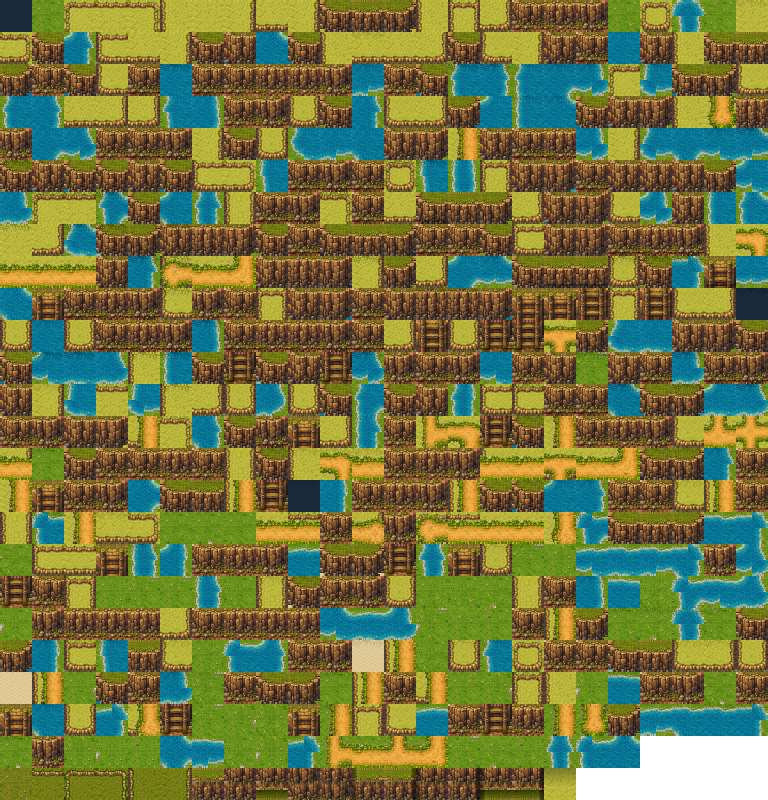
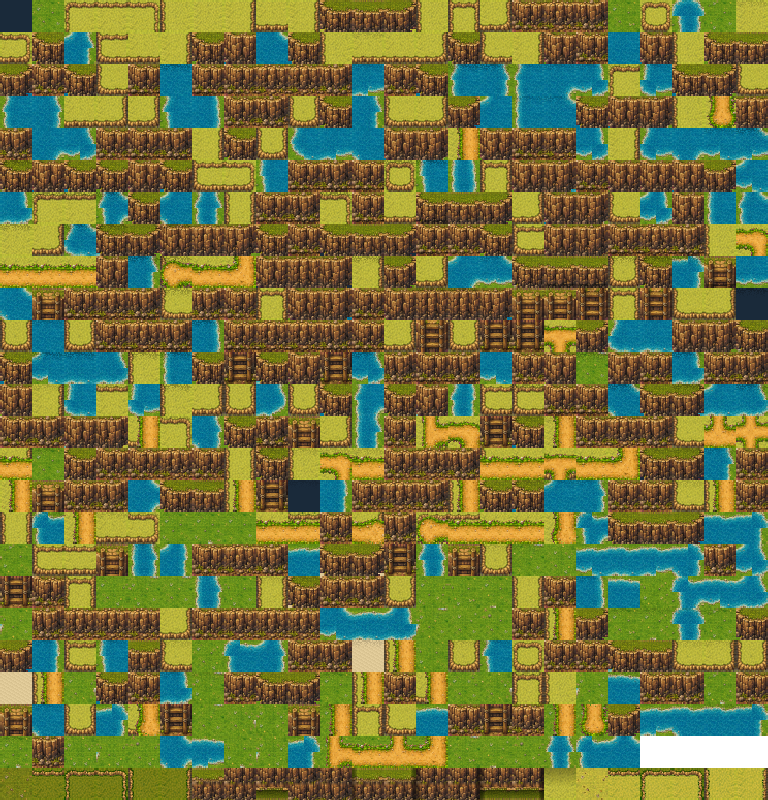
Northwood editor: plateau elevation Tint tool + lit grass tiles
Add a ✨ Tint tool that flood-fills a plateau top to toggle a bright
elevation highlight (#b8b038), and reset it on a second click.

- isElevatedTop: tint follows grass that actually sits atop a cliff
  face, so it stays on the plateau even when a side wall has a gap
  (fixes the leak into surrounding lowland grass).
- Lit grass palette (G/H/I/J/K/L) mirrors the normal top set, so
  edges/corners are preserved when toggling tint; interior-only
  recolor keeps the outer fringe dark olive to blend with the field.
- Bake lit tiles forest:594-599 into both atlas copies (exports +
  public) and register them in the stage JSON and vocab.

Changed region(s): [[0.75, 0.9375, 1.0, 1.0]]

diff --git a/editor.html b/editor.html
@@ -63,6 +63,7 @@
         <div class="row">
           <button id="plGrass" title="Paint the walkable grass top — edges & corners auto-fit">🟩 Top</button>
           <button id="plWall" title="Paint the rock face below the top — caps, feet & corners auto-fit; more rows = taller">🟫 Wall</button>
+          <button id="plTint" title="Click a plateau top to toggle its bright elevation highlight">✨ Tint</button>
         </div>
 
         <h2>Roster <small>(click to select)</small></h2>
@@ -300,23 +301,45 @@
       // corners for the face — is derived from its neighbours and re-flows live
       // as you extend or erase. Membership is implied by which char-set a cell's
       // current char belongs to, so re-resolving is stateless.
-      const GRASS_SET = new Set(["g", "n", "A", "B", "w", "e"]);          // walkable top
+      // top has two palettes: normal yellow-green + a bright "lit" set used to
+      // highlight an elevated plateau. Both count as grass membership; the Tint
+      // tool toggles a whole top between them, preserving each cell's edge/corner.
+      const GRASS_NORMAL = ["g", "n", "A", "B", "w", "e"];
+      const GRASS_LIT    = ["G", "H", "I", "J", "K", "L"];
+      const LIT_OF  = { g: "G", n: "H", A: "I", B: "J", w: "K", e: "L" };
+      const NORM_OF = { G: "g", H: "n", I: "A", J: "B", K: "w", L: "e" };
+      const isLit = (ch) => ch in NORM_OF;
+      const normRole = (ch) => NORM_OF[ch] || ch;   // bright→normal role char; normal→itself
+      const GRASS_SET = new Set([...GRASS_NORMAL, ...GRASS_LIT]);          // walkable top
       const WALL_SET  = new Set(["c", "v", "b", "h", "i", "j", "k", "l", "o", "p", "r"]); // rock face
       const inBounds = (x, y) => x >= 0 && y >= 0 && x < D.cols && y < D.rows;
       const plMat = (x, y) => { const c = charAt(x, y); return GRASS_SET.has(c) ? "grass" : WALL_SET.has(c) ? "wall" : null; };
       const inGrass = (x, y) => inBounds(x, y) && GRASS_SET.has(charAt(x, y));
       const inWall  = (x, y) => inBounds(x, y) && WALL_SET.has(charAt(x, y));
+      // is this grass an ELEVATED plateau top (vs. lowland)? Scan straight down through
+      // the grass run; if the first non-grass cell below is a cliff WALL, the grass sits
+      // atop a face → it's a top. Lowland grass scans down into forest/ground/edge, so it
+      // never qualifies. This lets Tint stay on the plateau even when a side wall has a gap
+      // that connects the top to the surrounding grass (which would otherwise leak the tint).
+      function isElevatedTop(x, y) {
+        if (!inGrass(x, y)) return false;
+        let cy = y;
+        while (inGrass(x, cy)) cy++;        // walk to first cell below the grass run
+        return inWall(x, cy);               // top iff that cell is a cliff face
+      }
 
       // top surface: N/W/E membership picks corner (A/B), edge (n/w/e) or fill (g).
       // South is intentionally ignored — the drop below the bottom row is the face.
       function resolveGrass(x, y) {
         const N = inGrass(x, y - 1), W = inGrass(x - 1, y), E = inGrass(x + 1, y);
-        if (!N && !W) return "A";          // top-left corner
-        if (!N && !E) return "B";          // top-right corner
-        if (!N) return "n";                // top edge
-        if (!W) return "w";                // left edge
-        if (!E) return "e";                // right edge
-        return "g";                        // interior
+        let role;
+        if (!N && !W) role = "A";          // top-left corner
+        else if (!N && !E) role = "B";     // top-right corner
+        else if (!N) role = "n";           // top edge
+        else if (!W) role = "w";           // left edge
+        else if (!E) role = "e";           // right edge
+        else role = "g";                   // interior
+        return isLit(charAt(x, y)) ? LIT_OF[role] : role; // keep this cell's tint
       }
       // rock face: vertical band (cap / mid / foot) x horizontal end (L / mid / R).
       // FOOT-first: a 1-row wall is both cap and foot — render it as the foot, which
@@ -376,6 +399,28 @@
         if (mat === "grass") extendWallToMatch(x, 0);  // pull the face under the new top
       }
 
+      // flood the connected plateau top and toggle its whole palette (bright<->normal)
+      // based on the clicked cell's current tint. One click = one undoable action.
+      function tintPlateau(x, y) {
+        if (plMat(x, y) !== "grass") { $("status").textContent = "Click a plateau TOP to highlight it."; return; }
+        if (!isElevatedTop(x, y)) { $("status").textContent = "That grass isn't an elevated top (no cliff face below it) — Tint only highlights plateaus."; return; }
+        const makeLit = !isLit(charAt(x, y));
+        beginAction();
+        const stack = [[x, y]], seen = new Set(); let n = 0; const CAP = 8000;
+        while (stack.length && n < CAP) {
+          const [cx, cy] = stack.pop(), k = key(cx, cy);
+          if (seen.has(k) || !inBounds(cx, cy)) continue;
+          seen.add(k);
+          if (plMat(cx, cy) !== "grass" || !isElevatedTop(cx, cy)) continue; // stay on the elevated top; never leak into lowland grass through a wall gap
+          const role = normRole(charAt(cx, cy));
+          applyChar(cx, cy, makeLit ? LIT_OF[role] : role);
+          n++;
+          stack.push([cx + 1, cy], [cx - 1, cy], [cx, cy + 1], [cx, cy - 1]);
+        }
+        endAction();
+        $("status").textContent = `${makeLit ? "Highlighted" : "Reset"} plateau top — ${n} cell(s).`;
+      }
+
       function paintCell(x, y) {
         if (tool === "pick") { pickAt(x, y); return; }
         if (tool === "plateau") { paintPlateau(x, y, plateauMat); return; }
@@ -414,7 +459,9 @@
         closeCtx();
         if (e.button === 1 || spaceDown) { panning = true; userMoved = true; panStart = { x: e.clientX - cam.x, y: e.clientY - cam.y }; e.preventDefault(); return; }
         if (e.button !== 0) return; // right-click handled by contextmenu
-        const c = cellAt(e.clientX, e.clientY); if (c) { painting = true; beginAction(); paintCell(c.x, c.y); draw(); }
+        const c = cellAt(e.clientX, e.clientY); if (!c) return;
+        if (tool === "tint") { tintPlateau(c.x, c.y); draw(); return; } // single click floods, no drag
+        painting = true; beginAction(); paintCell(c.x, c.y); draw();
       });
       window.addEventListener("mousemove", (e) => {
         if (panning) { cam.x = e.clientX - panStart.x; cam.y = e.clientY - panStart.y; draw(); return; }
@@ -479,12 +526,14 @@
         for (const [id, t] of [["tPaint", "paint"], ["tErase", "erase"], ["tPick", "pick"]]) $(id).classList.toggle("on", tool === t);
         $("plGrass").classList.toggle("on", tool === "plateau" && plateauMat === "grass");
         $("plWall").classList.toggle("on", tool === "plateau" && plateauMat === "wall");
+        $("plTint").classList.toggle("on", tool === "tint");
       }
       $("tPaint").onclick = () => { tool = "paint"; setTool(); };
       $("tErase").onclick = () => { tool = "erase"; setTool(); };
       $("tPick").onclick = () => { tool = "pick"; setTool(); };
       $("plGrass").onclick = () => { tool = "plateau"; plateauMat = "grass"; setTool(); $("status").textContent = "Plateau TOP — paint the walkable grass; edges & corners auto-fit. Erase to reshape."; };
       $("plWall").onclick = () => { tool = "plateau"; plateauMat = "wall"; setTool(); $("status").textContent = "Plateau WALL — paint the rock face below the top; caps, feet & end-corners auto-fit. More rows = taller cliff."; };
+      $("plTint").onclick = () => { tool = "tint"; setTool(); $("status").textContent = "Tint — click a plateau top to toggle its bright elevation highlight (click again to reset)."; };
       $("tRot").onclick = rotateAction;
       $("toggleAtlas").onclick = () => $("atlasWrap").classList.toggle("show");
       for (const id of ["optCol", "optTrees", "optGrid"]) $(id).onchange = draw;
